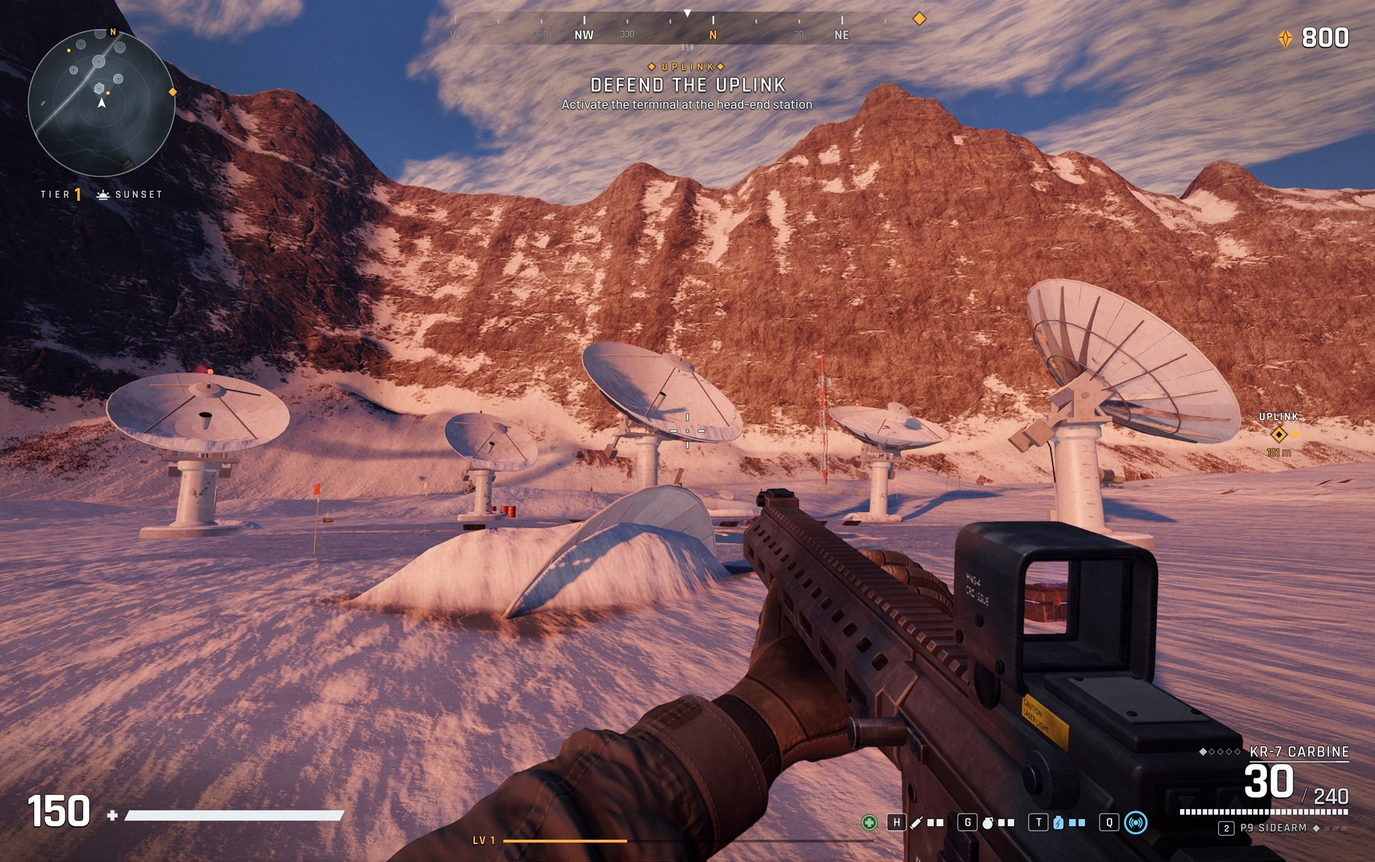
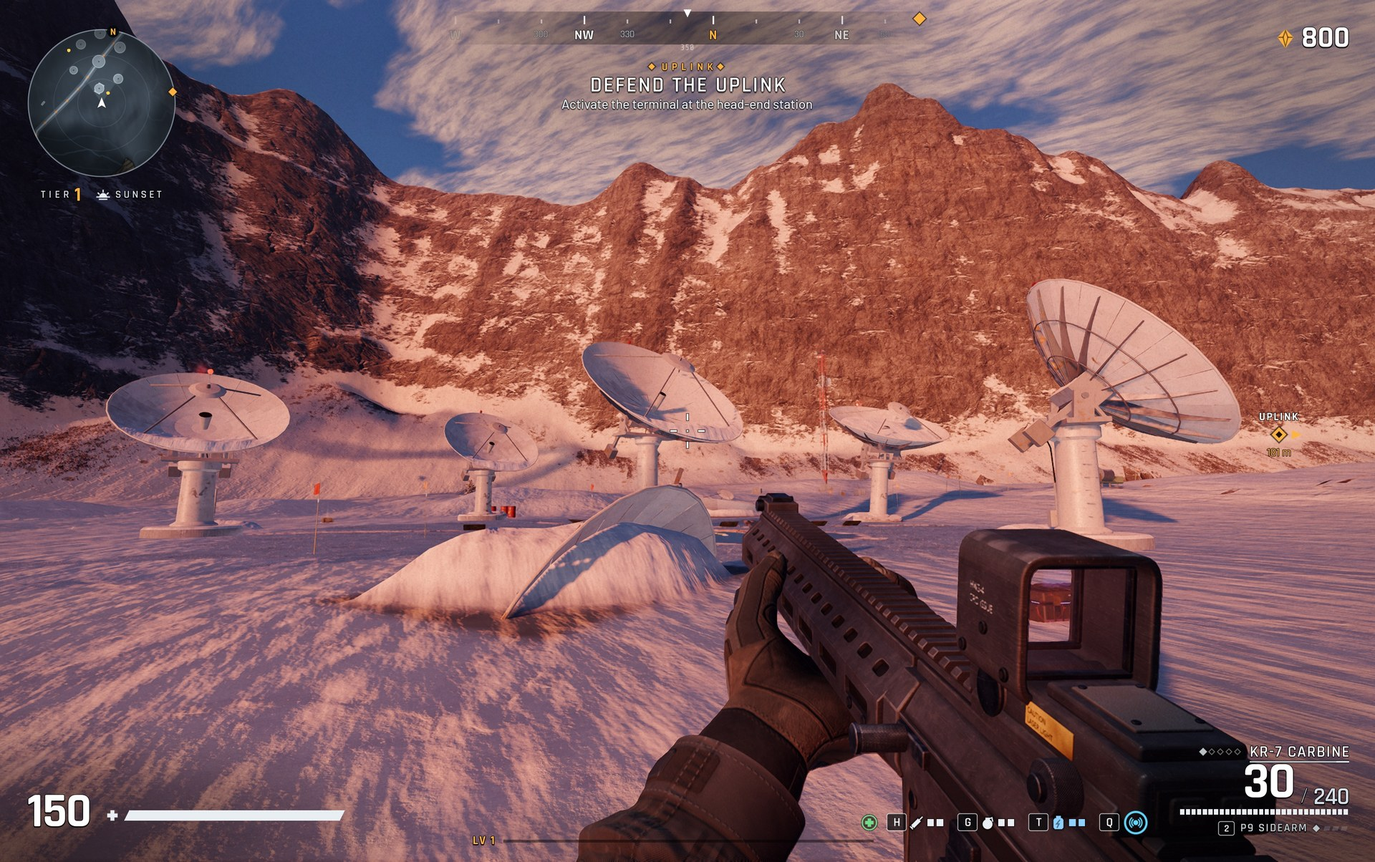
The page: pictures retaken from round 13.1 - the carbine held under the handguard, the squad, and the first pictures of the Cut

diff --git a/README.md b/README.md
@@ -48,6 +48,8 @@ Each zone is 400 m across - room to drive. One more is being built: the coast.
 | ![Highline in the morning, from the drop point](media/07_highline_morning.jpg) | ![The array at sunset](media/08_array_sunset.jpg) |
 | ![Crew Seven's camp at dusk](media/09_camp_dusk.jpg) | ![Aurora over the ridge](media/10_aurora_night.jpg) |
 | ![Inside a whiteout](media/11_whiteout.jpg) | ![The line log](media/12_line_log.jpg) |
+| ![The Cut from the south rim at sunset](media/17_cut_rim.jpg) | ![The quarry gate in the morning](media/18_cut_gate.jpg) |
+| ![Stone wagons and sawn blocks in the cut](media/19_cut_wagons.jpg) | ![A Tessel dumper left on the top bench](media/20_cut_dumper.jpg) |
 
 ## Vehicles
 
@@ -91,7 +93,8 @@ fresh one stands at its place a few minutes later.
 |---|---|
 | ![The relay yard at sunset](media/02_relay_yard_sunset.jpg) | ![The crash site at dusk](media/03_forest_dusk.jpg) |
 | ![Morning at the road block](media/01_roadblock_morning.jpg) | ![The bunker](media/05_bunker.jpg) |
-| ![Down the sight at sunset](media/06_fight.jpg) | |
+| ![Down the sight at sunset](media/06_fight.jpg) | ![The squad at the rim of the Cut, the pit below](media/22_cut_squad_rim.jpg) |
+| ![The squad in the relay yard](media/15_squad.jpg) | ![A revive under cover](media/16_squad_revive.jpg) |
 
 ## What it needs
 
